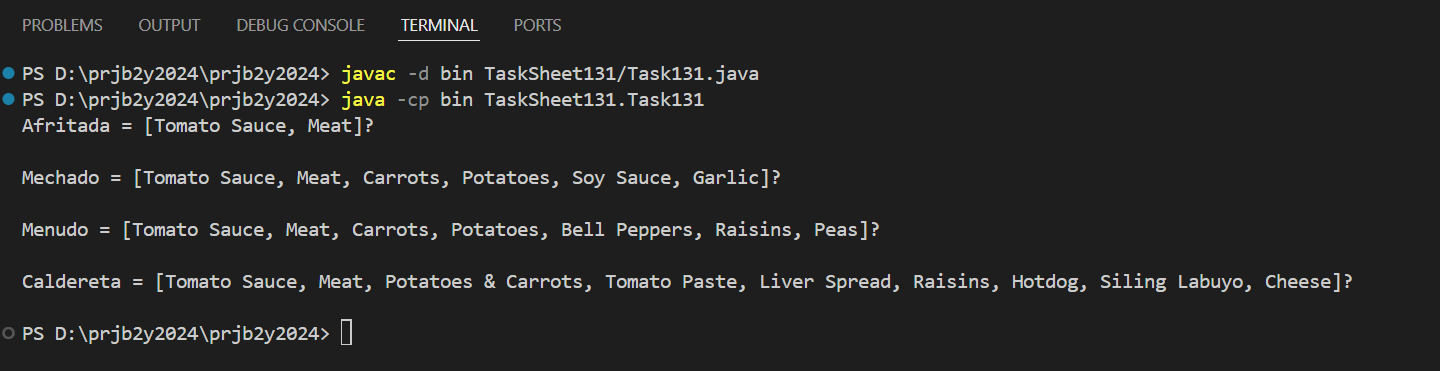
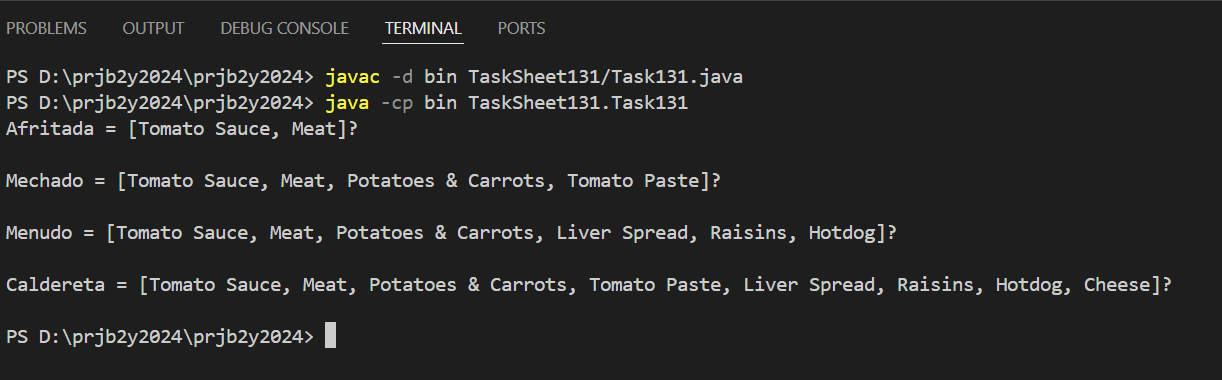
Demonstrate Java Polymorphism of various types

diff --git a/TaskSheet131/Task131.java b/TaskSheet131/Task131.java
@@ -1,55 +1,70 @@
-package TaskSheet131;
+/**
+ * Student: Junmar P.
+ * Trainer: Sir Marco
+ * School: SLTCFI
+ * Course: Java NCIII - Batch 2 
+ *
+ * 
+ * Title: Writing Control flow statements using Loops
+ * 
+ * Performance Objective: Given a function of " (i%2==0) ? 'even' : 'odd' ; ", 
+ * you should be able to write a program that will check each number if the 
+ * given numbers are odd or even numbers, print them, and compile it to run 
+ * in a java virtual machine without errors following Java Standard Edition specification.
+ */
 
-class Afritada {
-  public void showIngredients() {
-    String[] Ingredients = {"Tomato Sauce","Meat"};
-    System.out.println("Afritada = "+java.util.Arrays.toString(Ingredients)+"🍲 \n");
-  }
-}
 
-class Mechado extends Afritada {
-  public void showIngredients() {
-    String[] Ingredients = {"Tomato Sauce","Meat","Carrots","Potatoes","Soy Sauce","Garlic"};
-    System.out.println("Mechado = "+java.util.Arrays.toString(Ingredients)+"🍲 \n");
-  }
-}
+ package TaskSheet131;
 
-class Menudo extends Afritada {
-  public void showIngredients() {
-    String[] Ingredients = {"Tomato Sauce","Meat","Carrots","Potatoes","Bell Peppers","Raisins","Peas"};
-    System.out.println("Menudo = "+java.util.Arrays.toString(Ingredients)+"🍲 \n");
-  }
-}
-
-class Caldereta extends Afritada {
-  public void showIngredients() {
-    String[] Ingredients = 
-      {"Tomato Sauce",
-       "Meat",
-       "Potatoes & Carrots",
-       "Tomato Paste",
-       "Liver Spread",
-       "Raisins",
-       "Hotdog",
-       "Siling Labuyo",
-       "Cheese"};
-    System.out.println("Caldereta = "+java.util.Arrays.toString(Ingredients)+"🍲 \n");
-  }
-}
-
-public class Task131 {
-    public static void main(String[] args) {
-      // Create objects of different types
-        Afritada meal1 = new Afritada();
-        Afritada meal2 = new Mechado();
-        Afritada meal3 = new Menudo();
-        Afritada meal4 = new Caldereta();
-      
-      // Display ingredients for each meal
-        meal1.showIngredients();
-        meal2.showIngredients();
-        meal3.showIngredients();
-        meal4.showIngredients();
-    }
-}
-
+ class Afritada {
+   public void showIngredients() {
+     String[] Ingredients = {"Tomato Sauce","Meat"};
+     System.out.println("Afritada = "+java.util.Arrays.toString(Ingredients)+"🍲 \n");
+   }
+ }
+ 
+ class Mechado extends Afritada {
+   public void showIngredients() {
+     String[] Ingredients = {"Tomato Sauce","Meat","Potatoes & Carrots","Tomato Paste"};
+     System.out.println("Mechado = "+java.util.Arrays.toString(Ingredients)+"🍲 \n");
+   }
+ }
+ 
+ class Menudo extends Afritada {
+   public void showIngredients() {
+     String[] Ingredients = {"Tomato Sauce","Meat","Potatoes & Carrots","Liver Spread","Raisins","Hotdog"};
+     System.out.println("Menudo = "+java.util.Arrays.toString(Ingredients)+"🍲 \n");
+   }
+ }
+ 
+ class Caldereta extends Afritada {
+   public void showIngredients() {
+     String[] Ingredients = 
+       {"Tomato Sauce",
+        "Meat",
+        "Potatoes & Carrots",
+        "Tomato Paste",
+        "Liver Spread",
+        "Raisins",
+        "Hotdog",
+        "Cheese"};
+     System.out.println("Caldereta = "+java.util.Arrays.toString(Ingredients)+"🍲 \n");
+   }
+ }
+ 
+ public class Task131 {
+     public static void main(String[] args) {
+       // Create objects of different types
+         Afritada meal1 = new Afritada();
+         Afritada meal2 = new Mechado();
+         Afritada meal3 = new Menudo();
+         Afritada meal4 = new Caldereta();
+       
+       // Display ingredients for each meal
+         meal1.showIngredients();
+         meal2.showIngredients();
+         meal3.showIngredients();
+         meal4.showIngredients();
+     }
+ }
+ 

diff --git a/TaskSheet131/README.md b/TaskSheet131/README.md
@@ -1,0 +1,18 @@
+# Java Polymorphism Demonstration
+
+## Explanation
+
+### Class Definitions:
+
+- The `Afritada` class has a method `showIngredients` that prints the ingredients for Afritada.
+- The `Mechado` and `Menudo` classes extend `Afritada` and override the `showIngredients` method to provide their specific ingredients.
+- The `Caldereta` class extends `Afritada` and also overrides the `showIngredients` method.
+
+### Main Method:
+
+- Four objects (`meal1`, `meal2`, `meal3`, and `meal4`) are created, each representing a different dish but all of type `Afritada`.
+- The `showIngredients` method is called on each object to display the ingredients.
+
+## Usage
+
+To test this code, copy it into your Java IDE, compile and run it. It will display the ingredients for each meal, demonstrating polymorphism where a single reference type (`Afritada`) is used to refer to objects of various derived classes (`Mechado`, `Menudo`, `Caldereta`).
